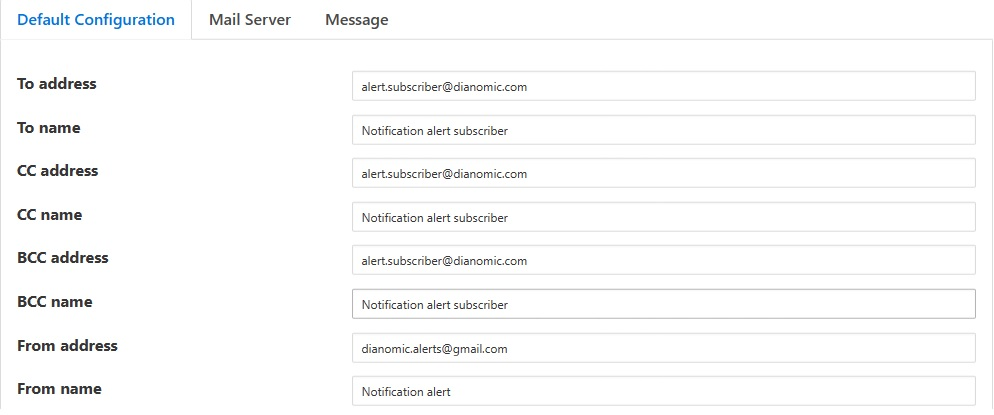
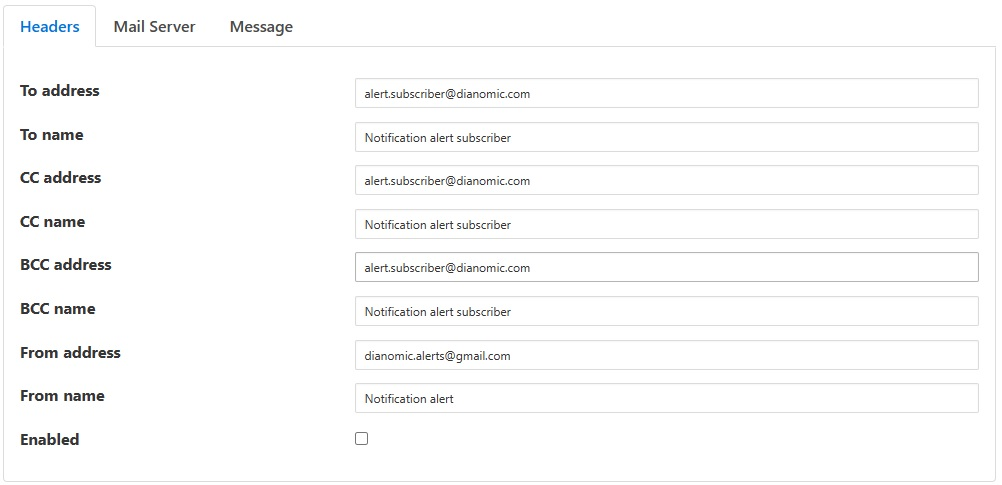
FOGL-7471: Added Header Group and $ Macro for subject line

diff --git a/plugin.cpp b/plugin.cpp
@@ -25,69 +25,78 @@ static const char * def_cfg = QUOTE({
 		"description" : "Email notification plugin",
 		"type" : "string",
 		"default" : PLUGIN_NAME,
-		"readonly" : "true" },
+		"readonly" : "true",
+		"group" : "Headers" },
 	"email_to" : {
 		"description" : "The comma separated address list to send the alert to",
 		"type" : "string",
 		"default" : "alert.subscriber@dianomic.com",
 		"order" : "1",
-		"displayName" : "To address"
+		"displayName" : "To address",
+		"group" : "Headers"
 		},
 	"email_to_name" : {
 		"description" : "The comma separated name list to send the alert to",
 		"type" : "string",
 		"default" : "Notification alert subscriber",
 		"order" : "2",
-		"displayName" : "To name"
+		"displayName" : "To name",
+		"group" : "Headers"
 		},
 	"email_cc" : {
 		"description" : "The comma separated address list to send the CC alert",
 		"type" : "string",
 		"default" : "alert.subscriber@dianomic.com",
 		"order" : "3",
-		"displayName" : "CC address"
+		"displayName" : "CC address",
+		"group" : "Headers"
 		},
 	"email_cc_name" : {
 		"description" : "The comma separated name list to send the CC alert",
 		"type" : "string",
 		"default" : "Notification alert subscriber",
 		"order" : "4",
-		"displayName" : "CC name"
+		"displayName" : "CC name",
+		"group" : "Headers"
 		},
 	"email_bcc" : {
 		"description" : "The comma separated address list to send the BCC alert",
 		"type" : "string",
 		"default" : "alert.subscriber@dianomic.com",
 		"order" : "5",
-		"displayName" : "BCC address"
+		"displayName" : "BCC address",
+		"group" : "Headers"
 		},
 	"email_bcc_name" : {
 		"description" : "The comma separated name list to send the BCC alert",
 		"type" : "string",
 		"default" : "Notification alert subscriber",
 		"order" : "6",
-		"displayName" : "BCC name"
+		"displayName" : "BCC name",
+		"group" : "Headers"
 		},
 	"email_from" : {
 		"description" : "The address the email will come from",
 		"type" : "string",
 		"displayName" : "From address",
 		"default" : "dianomic.alerts@gmail.com",
-		"order" : "7"
+		"order" : "7",
+		"group" : "Headers"
 		},
 	"email_from_name" : {
 		"description" : "The name used to send the alert email",
 		"type" : "string",
 		"default" : "Notification alert", 
 		"displayName" : "From name",
-		"order" : "8"
+		"order" : "8",
+		"group" : "Headers"
 		},
 	"subject" : {
-		"description" : "The email subject. Macro $NOTIFICATION_INSTANCE_NAME$ can be used to provide information about notification instance name",
+		"description" : "The email subject. Macro $NOTIFICATION_INSTANCE_NAME$ can be used to provide information about notification instance name. Macro $REASON$ can be use to provide the reason for notification.",
 		"type" : "string",
 		"displayName" : "Subject",
 		"order" : "9",
-		"default" : "Fledge alert notification sent by $NOTIFICATION_INSTANCE_NAME$ ",
+		"default" : "Fledge alert notification sent by $NOTIFICATION_INSTANCE_NAME$ $REASON$ ",
 		"group" : "Message"
 		},
 	"email_body" : {
@@ -143,7 +152,8 @@ static const char * def_cfg = QUOTE({
 		"type": "boolean",
 		"displayName" : "Enabled",
 		"default": "false", 
-		"order" : "16" }
+		"order" : "16",
+		"group" : "Headers" }
 	});
 
 using namespace std;
@@ -169,8 +179,10 @@ static PLUGIN_INFORMATION info = {
 typedef struct
 {
 	EmailCfg emailCfg;
+	bool isConfigValid;
 } PLUGIN_INFO;
 
+bool isAddressNamePairMatch = true;
 extern int sendEmailMsg(const EmailCfg *emailCfg, const char *msg);
 extern char *errorString(int result);
 extern std::vector<std::string> stringTokenize(std::string searchString ,std::regex searchPattern);
@@ -283,8 +295,56 @@ void parseConfig(ConfigCategory *config, EmailCfg *emailCfg)
 	{
 		emailCfg->password = config->getValue("password");
 	}
+
+	
 }
 
+void validateConfig(PLUGIN_HANDLE *handle, EmailCfg emailCfg)
+{
+	PLUGIN_INFO *info = (PLUGIN_INFO *) handle;
+
+	// Check for complete configuation
+	if (emailCfg.email_to == "" || emailCfg.email_from =="" || emailCfg.server == "" || emailCfg.port == 0)
+	{
+		info->isConfigValid;
+		Logger::getLogger()->error("To address, From address SMTP Server , SMTP port can not be blank. Please provide complete configuation");
+		return;
+	}
+	// Check if To address and To Names have same count
+	std::regex searhPattern("[^\\,]+");
+	std::vector<string> toAddress =  stringTokenize(emailCfg.email_to,searhPattern);
+	std::vector<string> toNames =  stringTokenize(emailCfg.email_to_name,searhPattern);
+	
+	if ( toAddress.size() != toNames.size() )
+	{
+		info->isConfigValid = false;
+		Logger::getLogger()->error("There is a mismatch between To address and To name count.");
+		return;
+	}
+
+	// Check if CC address and CC Names have same count
+	std::vector<string> ccAddress =  stringTokenize(emailCfg.email_cc,searhPattern);
+	std::vector<string> ccNames =  stringTokenize(emailCfg.email_cc_name,searhPattern);
+	
+	if ( ccAddress.size() != ccNames.size() )
+	{
+		info->isConfigValid = false;
+		Logger::getLogger()->error("There is a mismatch between CC address and CC name count.");
+		return;
+	}
+	
+	// Check if BCC address and BCC Names have same count
+	std::vector<string> bccAddress =  stringTokenize(emailCfg.email_bcc,searhPattern);
+	std::vector<string> bccNames =  stringTokenize(emailCfg.email_bcc_name,searhPattern);
+	
+	if ( bccAddress.size() != bccNames.size() )
+	{
+		info->isConfigValid = false;
+		Logger::getLogger()->error("There is a mismatch between BCC address and BCC names count.");
+		return;
+	}
+
+}
 /**
  * Initialise the plugin, called to get the plugin handle and setup the
  * plugin configuration
@@ -295,70 +355,23 @@ void parseConfig(ConfigCategory *config, EmailCfg *emailCfg)
 PLUGIN_HANDLE plugin_init(ConfigCategory* config)
 {
 	PLUGIN_INFO *info = new PLUGIN_INFO;
-
-
+	
 	// Handle plugin configuration
 	if (config)
 	{
 		Logger::getLogger()->info("Email plugin config=%s", config->toJSON().c_str());
-
+		info->isConfigValid = true;
 		resetConfig(&info->emailCfg);
 		parseConfig(config, &info->emailCfg);
 		printConfig(&info->emailCfg);
 		
-		std::regex searhPattern("[^\\,]+");
-
-		// Check if To address and To Names have same count
-		std::vector<string> toAddress =  stringTokenize(info->emailCfg.email_to,searhPattern);
-		std::vector<string> toNames =  stringTokenize(info->emailCfg.email_to_name,searhPattern);
-		
-		if ( toAddress.size() != toNames.size() )
-		{
-			Logger::getLogger()->error("There is mistach between To address and To names count, exiting...");
-			delete info;
-			info = NULL;
-			return (PLUGIN_HANDLE)info;
-		}
-
-		// Check if CC address and CC Names have same count
-		std::vector<string> ccAddress =  stringTokenize(info->emailCfg.email_cc,searhPattern);
-		std::vector<string> ccNames =  stringTokenize(info->emailCfg.email_cc_name,searhPattern);
-		
-		if ( ccAddress.size() != ccNames.size() )
-		{
-			Logger::getLogger()->error("There is mistach between cc address and cc names count, exiting...");
-			delete info;
-			info = NULL;
-			return (PLUGIN_HANDLE)info;
-		}
-		
-		// Check if BCC address and BCC Names have same count
-		std::vector<string> bccAddress =  stringTokenize(info->emailCfg.email_bcc,searhPattern);
-		std::vector<string> bccNames =  stringTokenize(info->emailCfg.email_bcc_name,searhPattern);
-		
-		if ( bccAddress.size() != bccNames.size() )
-		{
-			Logger::getLogger()->error("There is mistach between bcc address and bcc names count, exiting...");
-			delete info;
-			info = NULL;
-			return (PLUGIN_HANDLE)info;
-		}
-		
-		if (info->emailCfg.email_to == "" || info->emailCfg.server == "" || info->emailCfg.port == 0)
-		{
-			Logger::getLogger()->error("Config for email notification plugin is incomplete, exiting...");
-			delete info;
-			info = NULL;
-			return (PLUGIN_HANDLE)info;
-		}
 	}
 	else
 	{
-		Logger::getLogger()->fatal("No config provided for email plugin, exiting...");
-		delete info;
-		info = NULL;
+		info->isConfigValid = false;
+		Logger::getLogger()->fatal("No config provided for email plugin");
 	}
-	
+
 	return (PLUGIN_HANDLE)info;
 }
 
@@ -381,7 +394,31 @@ bool plugin_deliver(PLUGIN_HANDLE handle,
 							deliveryName.c_str(), notificationName.c_str(), triggerReason.c_str(), message.c_str());
 	PLUGIN_INFO *info = (PLUGIN_INFO *) handle;
 	StringReplace(info->emailCfg.subject, "$NOTIFICATION_INSTANCE_NAME$", notificationName);
-	int rv = sendEmailMsg(&info->emailCfg, info->emailCfg.email_body.c_str());
+	
+	// Parse JSON triggerReason 
+	Document doc;
+	doc.Parse(triggerReason.c_str());
+	if (doc.HasParseError())
+	{
+		Logger::getLogger()->error("Email notification delivery: failure parsing JSON trigger reason '%s'", triggerReason.c_str());
+		return false;
+	}
+
+	string reason = doc["reason"].GetString();
+
+	StringReplace(info->emailCfg.subject, "$REASON$", reason);
+
+
+	int rv = 0;
+	if (info->isConfigValid)
+	{
+		rv = sendEmailMsg(&info->emailCfg, info->emailCfg.email_body.c_str());
+	}
+	else
+	{
+		Logger::getLogger()->warn("Email delivery notification aborted due to mismatch in email Id and name count");
+	}	
+
 	if (rv)
 	{
 		Logger::getLogger()->error("Email notification failed: sendEmailMsg() returned %d, %s", rv, errorString(rv));
@@ -405,13 +442,8 @@ void plugin_reconfigure(PLUGIN_HANDLE *handle, string& newConfig)
 	Logger::getLogger()->info("Email plugin reconfig=%s", newConfig.c_str());
 
 	parseConfig(&config, &info->emailCfg);
-	
-	if (info->emailCfg.email_to == "" || info->emailCfg.server == "" || info->emailCfg.port == 0)
-	{
-		Logger::getLogger()->error("New config for email notification plugin is incomplete");
-		// How to indicate failure to caller?
-		// Maybe keep a copy of previous emailCfg structure and restore it here in case of failure
-	}
+
+	validateConfig(handle,info->emailCfg);
 	
 	return;
 }

diff --git a/docs/index.rst b/docs/index.rst
@@ -37,7 +37,7 @@ During the creation of your notification select the email notification plugin fr
 | |email_2| |
 +-----------+
 
-  - **Subject**: A Subject to put in the email message. Macro $NOTIFICATION_INSTANCE_NAME$ can be used in subject to provide information about notification instance name
+  - **Subject**: A Subject to put in the email message. Macro $NOTIFICATION_INSTANCE_NAME$ can be used in subject to provide information about notification instance name. Macro $REASON$ can be use to provide the reason for notification.
 
   - **Body**: A message to put in the email message
 
